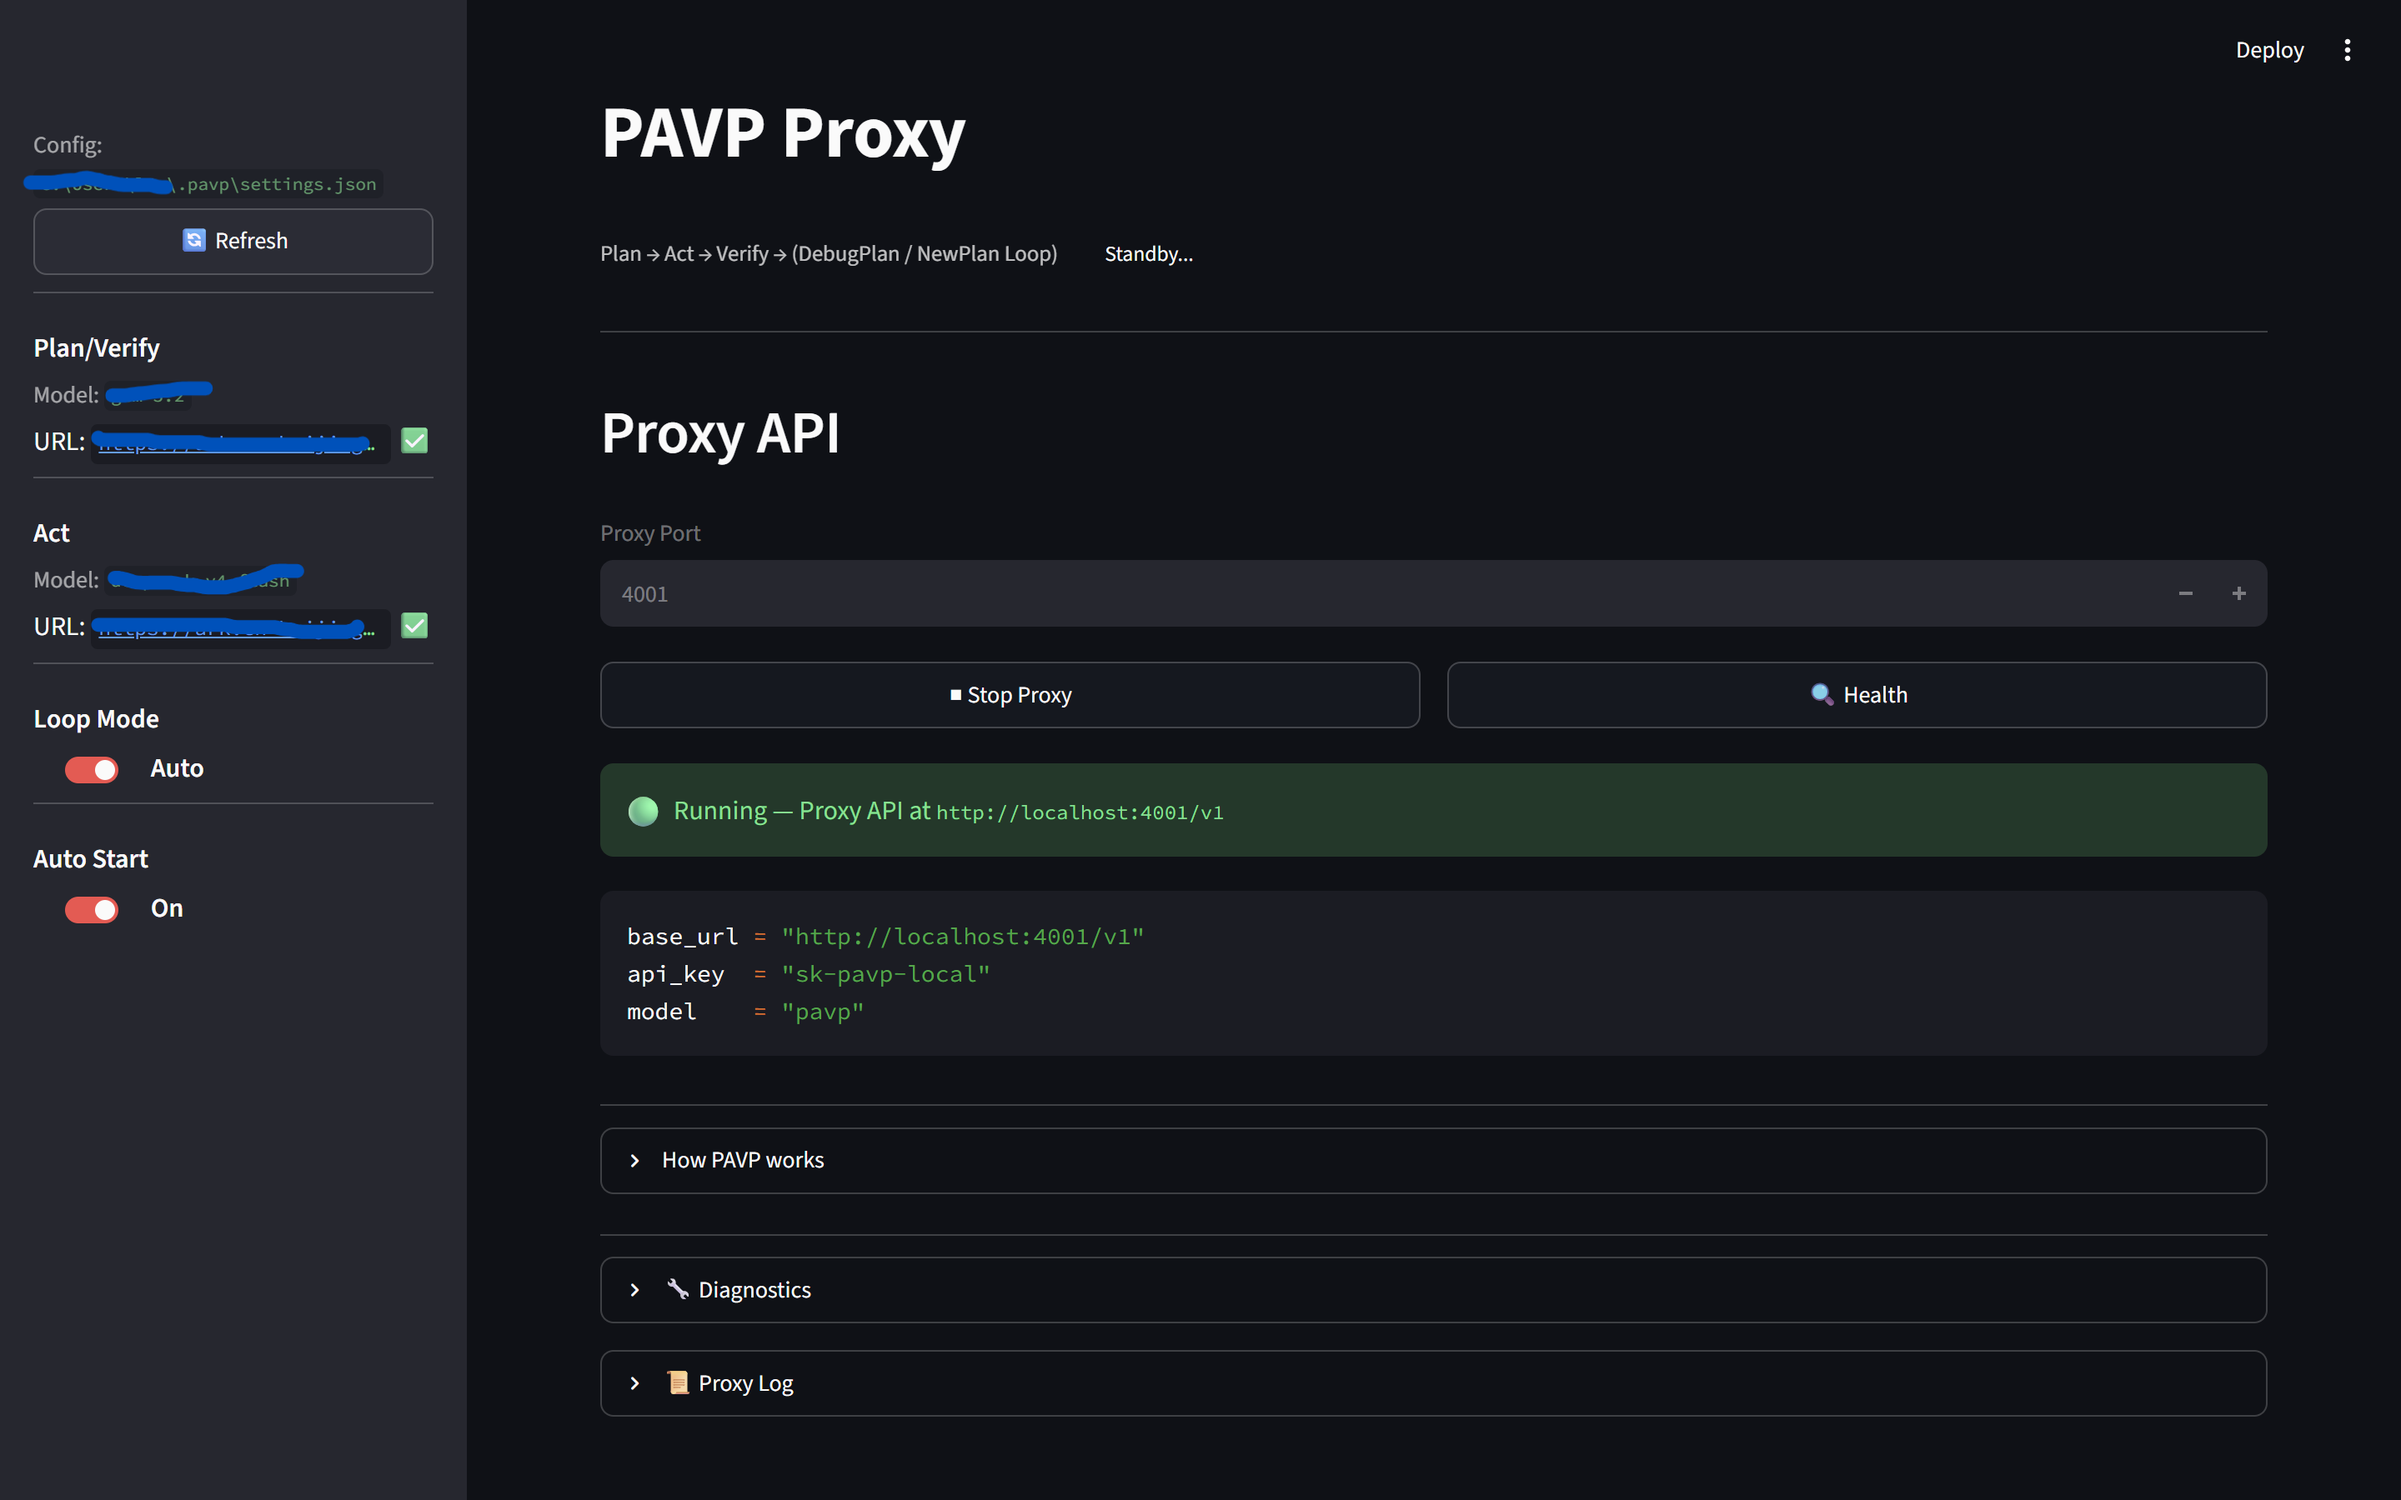
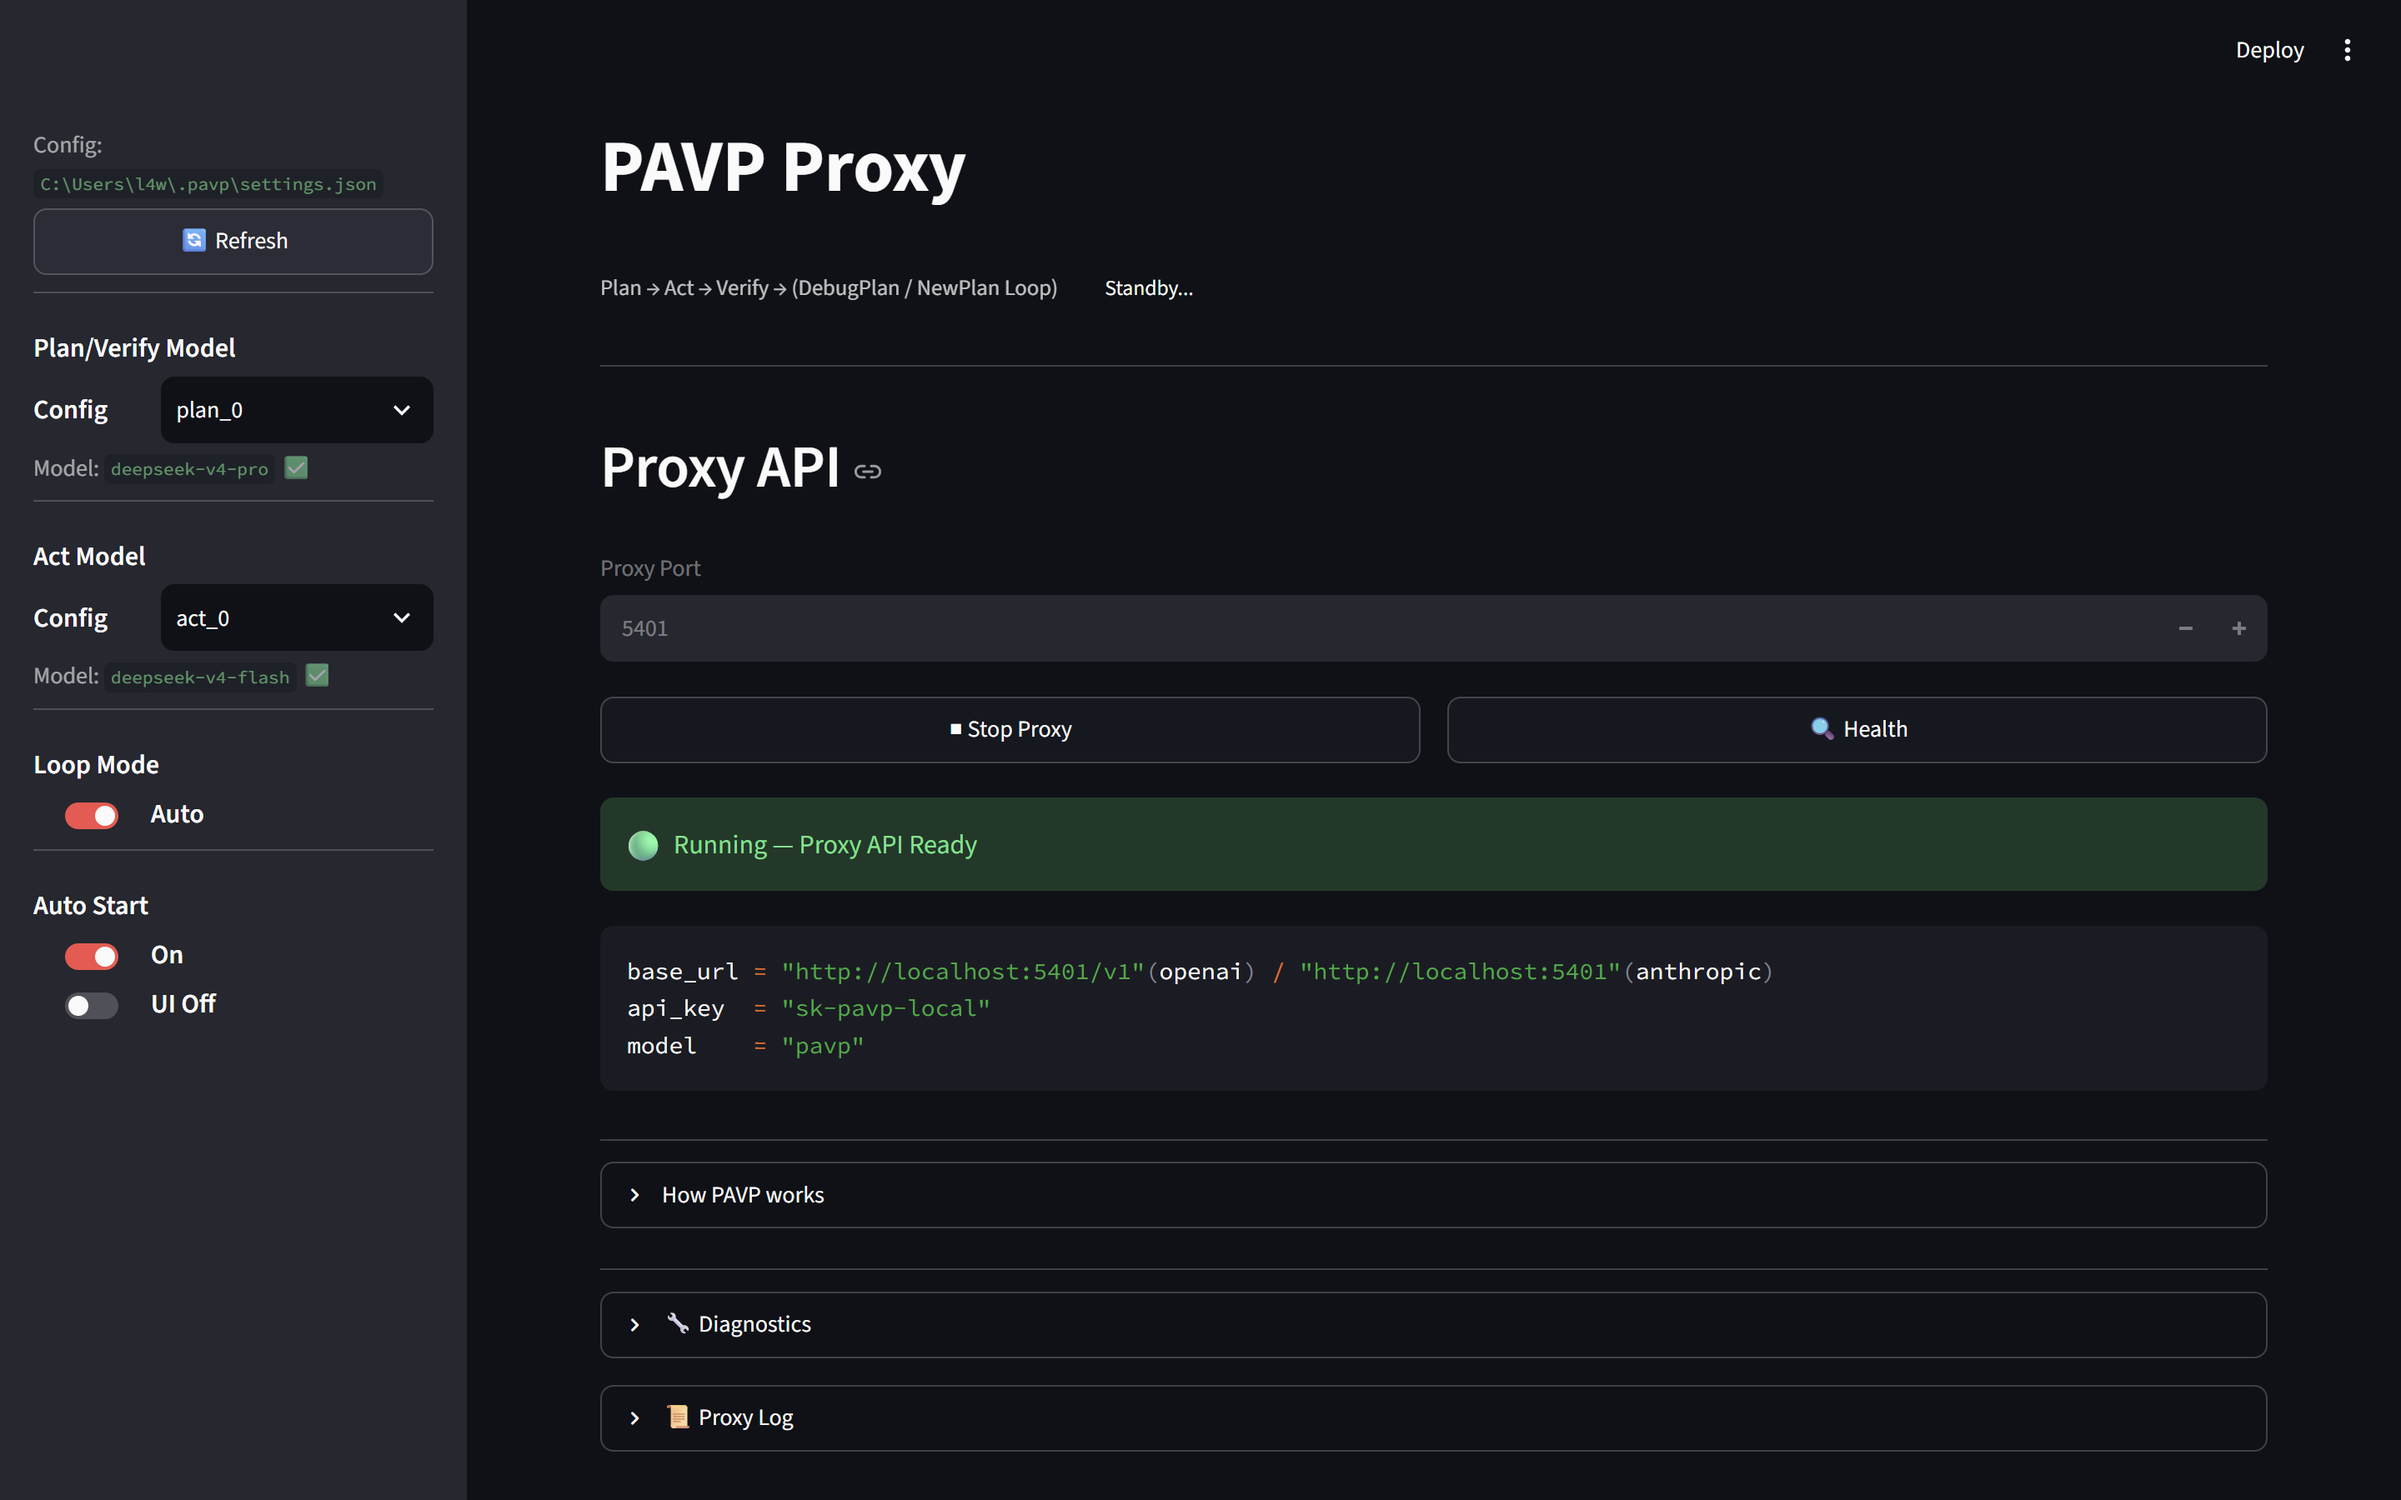
update README

diff --git a/README.md b/README.md
@@ -25,7 +25,8 @@ PAVP 本质上是一个 **LLM 编排层**，通过本地代理服务实现：
 
 架构说明：
 
-- **Proxy 模式**（推荐）：运行本地代理服务，Agent 直接通过 OpenAI 兼容接口调用，PAVP 在后台透明完成 Plan → Act
+- **Proxy 模式**：运行本地代理服务，Agent 直接通过 OpenAI 兼容接口调用，PAVP 在后台透明完成 Plan → Act
+- **多模型支持**：适配 OpenAI、Anthropic 端口，通过 settings.json 灵活配置 Plan/Act/Verify 使用不同模型
 
 ### 2. 环境要求
 
@@ -56,9 +57,9 @@ model    = "pavp"
 
 ### 5. 作者使用情况
 
-- 当前仅在 **Trae** 中使用，未测试其他 Agent
+- 当前在 **Trae** \ **Claude** 中使用，未测试其他 Agent
 - Plan 额度消费至少降低了 **80%+**（使用廉价模型执行 Act，高能力模型仅用于 Plan/Verify）
-- 偶尔需要返工，需要编写详细的提示词
+- 建议用于复杂任务、长任务，简单任务会过度思考
 - 大体可用，比直接使用普通模型要强
 
 ### 6. 自举
@@ -91,7 +92,8 @@ Each new task generates a unique `task_key` (e.g. `TK-a1b2c3d4`) in the Plan JSO
 
 Architecture notes:
 
-- **Proxy Mode** (recommended): Runs a local proxy server; the agent calls it via an OpenAI-compatible API, and PAVP transparently handles Plan → Act in the background
+- **Proxy Mode**: Runs a local proxy server; the agent calls it via an OpenAI-compatible API, and PAVP transparently handles Plan → Act in the background
+- **Multi-model support**: Compatible with OpenAI and Anthropic endpoints; configure different models for Plan/Act/Verify roles via settings.json
 
 ### 2. Environment
 
@@ -122,9 +124,9 @@ model    = "pavp"
 
 ### 5. Author's Usage
 
-- Currently used **only in Trae**; not tested with other agents
+- Currently used **Trae** \ **Claude**; not tested with other agents
 - Plan token consumption reduced by **80%+** (cheap model for Act, capable model only for Plan/Verify)
-- Occasional rework needed; detailed prompts are required
+- Recommended for complex/long tasks; simple tasks may cause overthinking
 - Generally usable and better than using a raw cheap model directly
 
 ### 6. Bootstrapping
